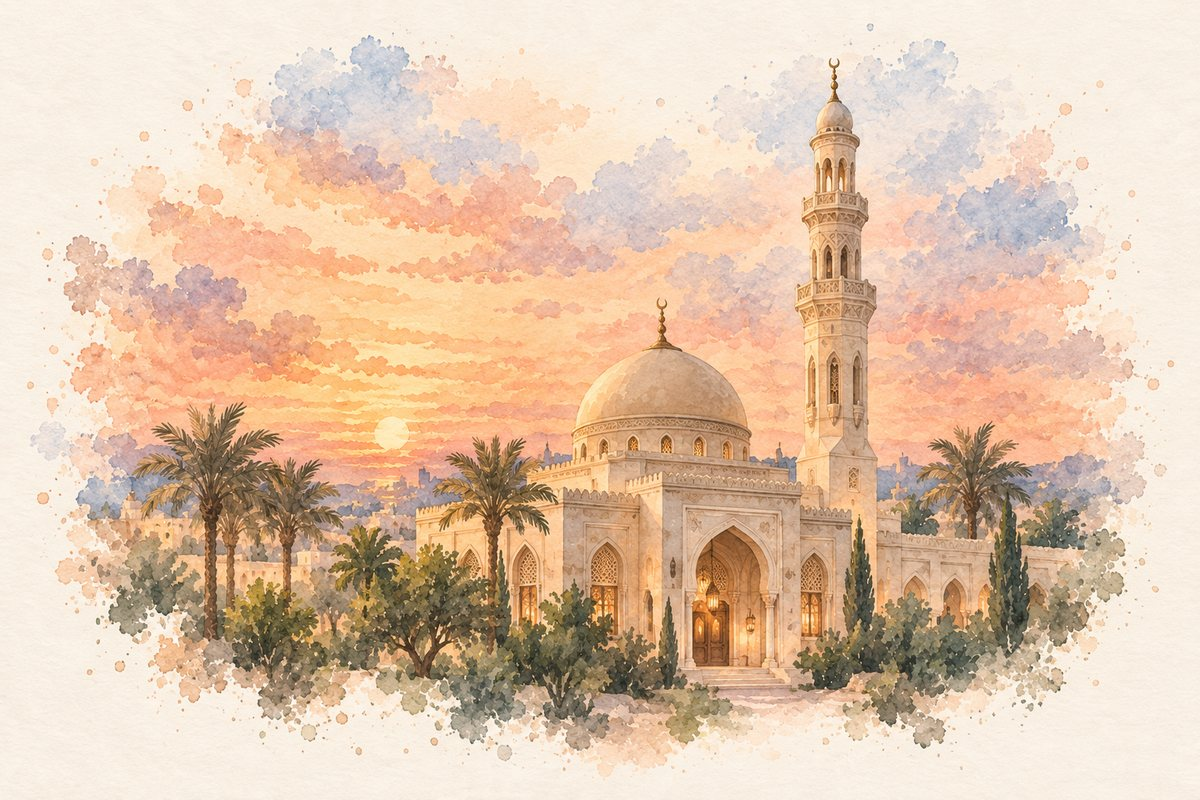
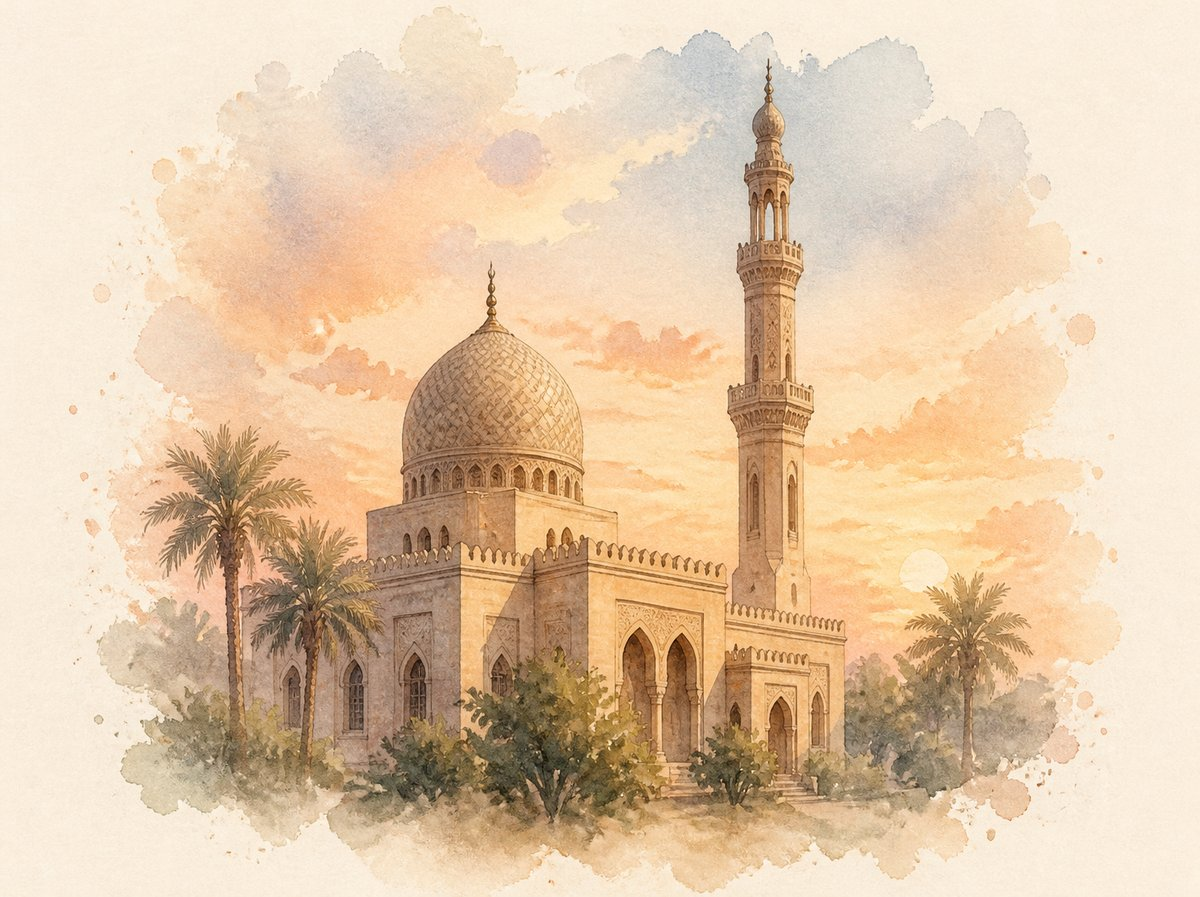
صورة المسجد من Canva، وزر «موقع المسجد»
Claude-Session: https://claude.ai/code/session_01DUsgjsdHpzHA8jrW2RjX7M

diff --git a/assets/css/invite.css b/assets/css/invite.css
@@ -331,7 +331,7 @@ button, input, textarea { font: inherit; color: inherit; }
 .city { font-size: 17px; line-height: 1.8; color: var(--ink-soft); }
 .mosque { margin: 14px -6px 18px; }
 .mosque img {
-  width: 100%; height: auto; aspect-ratio: 3 / 2;
+  width: 100%; height: auto; aspect-ratio: 1456 / 1088;
   -webkit-mask-image: radial-gradient(ellipse 72% 70% at 50% 50%, #000 62%, transparent 100%);
   mask-image: radial-gradient(ellipse 72% 70% at 50% 50%, #000 62%, transparent 100%);
 }
